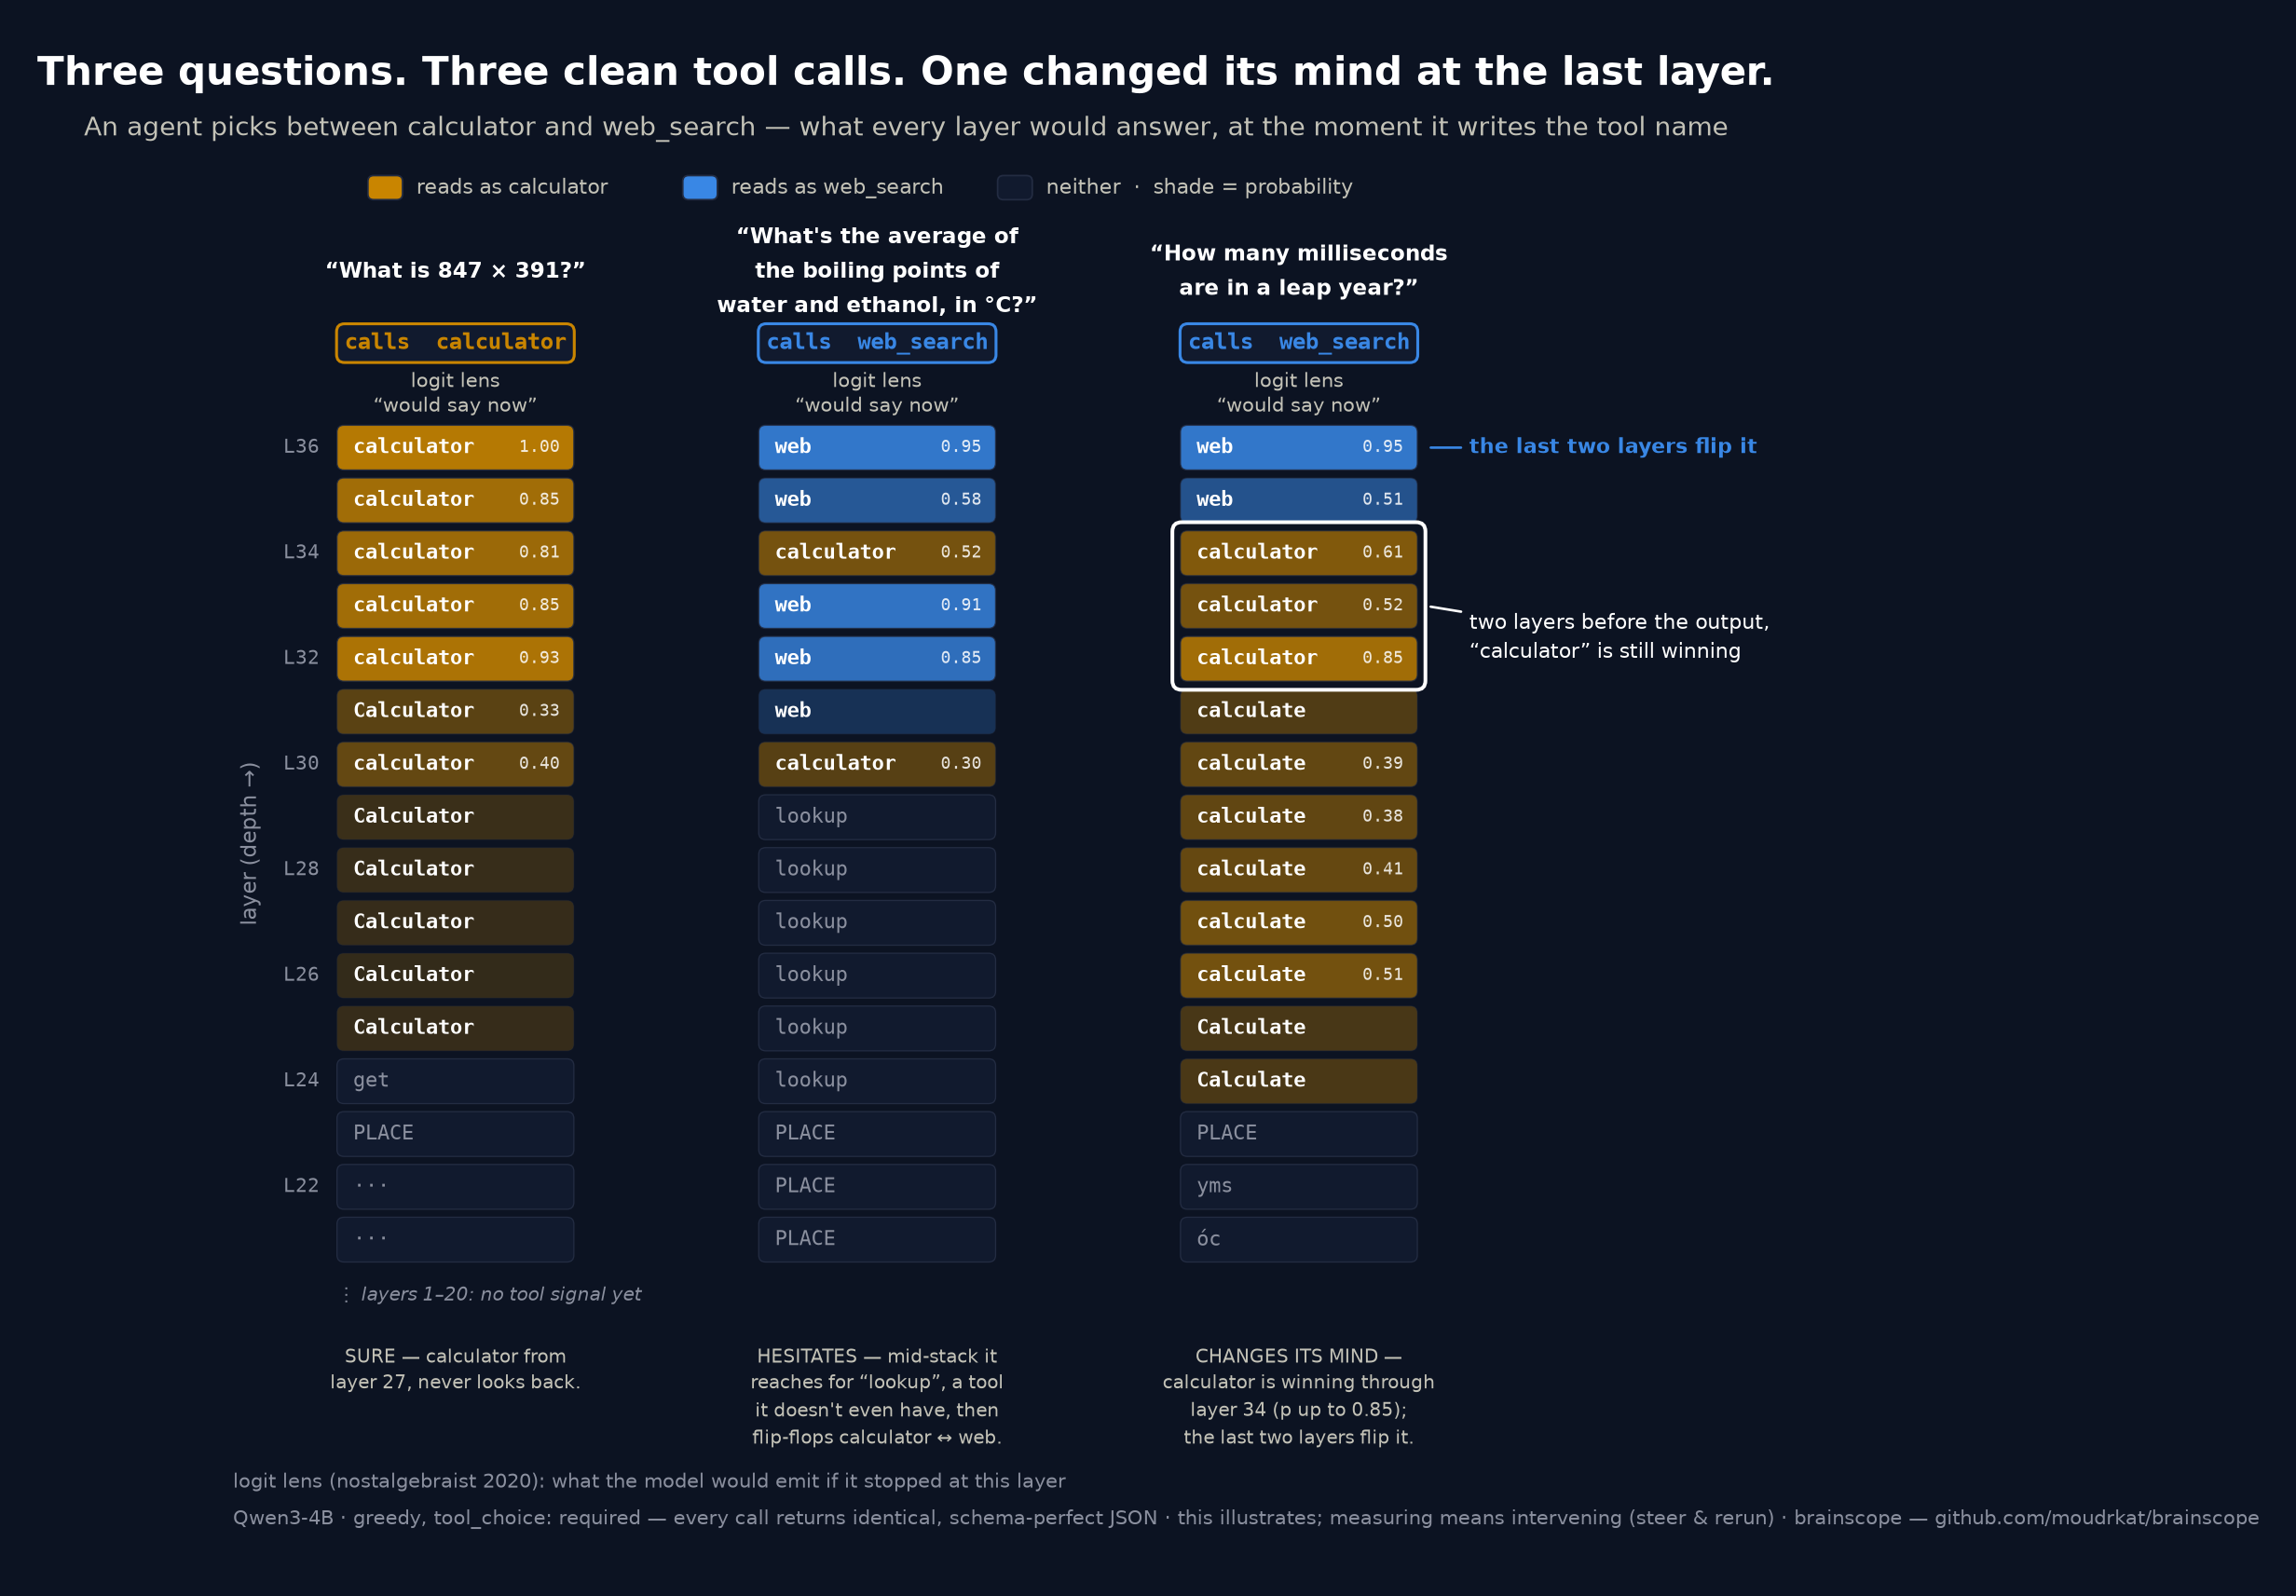
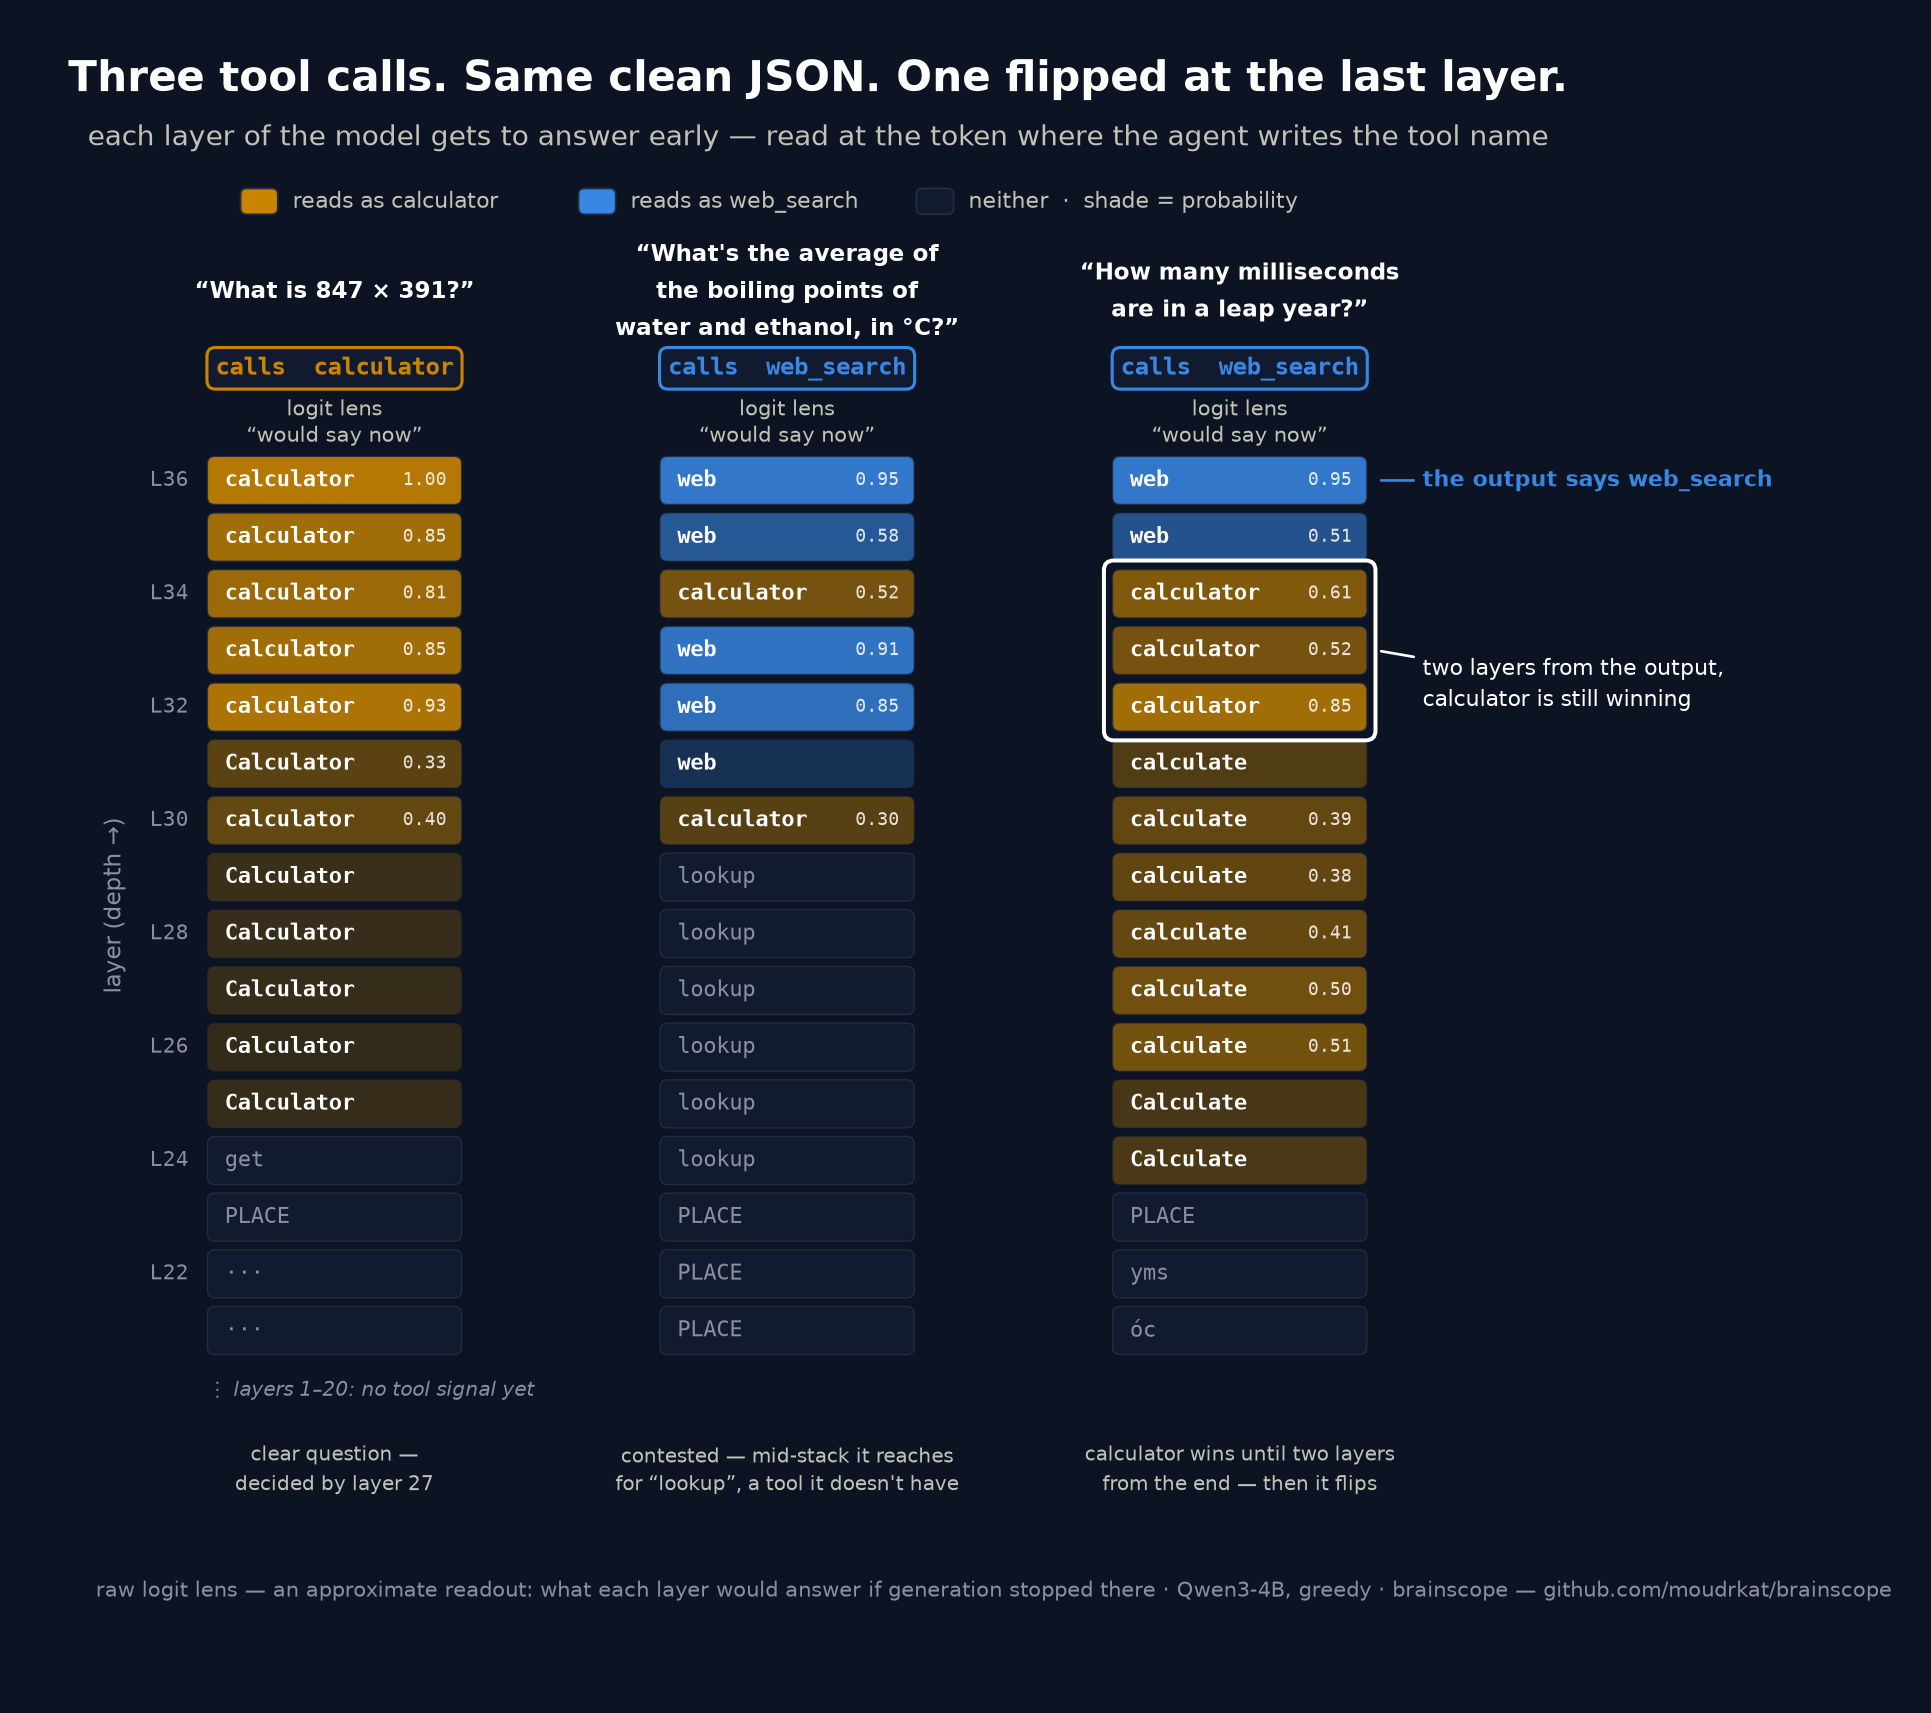
README structure fix; feed-ready logit figure; install via git URL
Move the UI replay screenshots back into the hesitation section, add
the decision-margin metric to the list, correct the install command
(not on PyPI), note exact-vs-lower-bound in the honesty section. The
logit-only figure drops to one idea and one footer line, labelled
explicitly as a raw, approximate readout.

diff --git a/fig/render.py b/fig/render.py
@@ -61,24 +61,29 @@ if CZ:
     }
 
 if LOGIT_ONLY:
-    # single-readout story: verdicts/callouts must not reference the J-lens
-    T["subtitle"] = ("An agent picks between calculator and web_search — what every layer would answer, "
-                     "at the moment it writes the tool name" if not CZ else
-                     "Agent volí mezi calculator a web_search — co by odpověděla každá vrstva "
-                     "ve chvíli, kdy píše jméno toolu")
-    T["v1"] = ("SURE — calculator from\nlayer 27, never looks back." if not CZ else
-               "JISTÝ — calculator od vrstvy 27,\nuž se neohlédne.")
-    T["v2"] = ("HESITATES — mid-stack it\nreaches for “lookup”, a tool\nit doesn't even have, then\nflip-flops calculator ↔ web." if not CZ else
-               "VÁHÁ — uprostřed sahá po\n„lookup“, toolu, který vůbec\nnemá, pak přeskakuje\ncalculator ↔ web až do konce.")
-    T["v3"] = ("CHANGES ITS MIND —\ncalculator is winning through\nlayer 34 (p up to 0.85);\nthe last two layers flip it." if not CZ else
-               "ROZMYSLÍ SI TO — až do\nvrstvy 34 vede calculator\n(p až 0,85); poslední dvě\nvrstvy to překlopí.")
-    T["callout1"] = ("two layers before the output,\n“calculator” is still winning" if not CZ else
-                     "dvě vrstvy před výstupem\npořád vede „calculator“")
-    T["callout2"] = ("the last two layers flip it" if not CZ else
-                     "poslední dvě vrstvy to překlopí")
-    T["foot1"] = ("logit lens (nostalgebraist 2020): what the model would emit if it stopped at this layer"
+    # single-readout story, tuned for a feed: one idea, minimal text
+    T["title"] = ("Three tool calls. Same clean JSON. One flipped at the last layer." if not CZ else
+                  "Tři tool cally. Stejně čistý JSON. Jeden se překlopil v poslední vrstvě.")
+    T["subtitle"] = ("each layer of the model gets to answer early — read at the token "
+                     "where the agent writes the tool name" if not CZ else
+                     "každá vrstva modelu smí odpovědět předčasně — čteno na tokenu, "
+                     "kde agent píše jméno toolu")
+    T["v1"] = ("clear question —\ndecided by layer 27" if not CZ else
+               "jasná otázka —\nrozhodnuto od vrstvy 27")
+    T["v2"] = ("contested — mid-stack it reaches\nfor “lookup”, a tool it doesn't have" if not CZ else
+               "sporná — uprostřed sahá po „lookup“,\ntoolu, který nemá")
+    T["v3"] = ("calculator wins until two layers\nfrom the end — then it flips" if not CZ else
+               "až dvě vrstvy před koncem\nvede calculator — pak přeskočí")
+    T["callout1"] = ("two layers from the output,\ncalculator is still winning" if not CZ else
+                     "dvě vrstvy před výstupem\npořád vede calculator")
+    T["callout2"] = ("the output says web_search" if not CZ else
+                     "výstup říká web_search")
+    T["foot1"] = ("raw logit lens — an approximate readout: what each layer would answer if generation "
+                  "stopped there · Qwen3-4B, greedy · brainscope — github.com/moudrkat/brainscope"
                   if not CZ else
-                  "logit lens (nostalgebraist 2020): co by model vypsal, kdyby výpočet skončil v této vrstvě")
+                  "raw logit lens — přibližný readout: co by každá vrstva odpověděla, kdyby generování "
+                  "skončilo tam · Qwen3-4B, greedy · brainscope — github.com/moudrkat/brainscope")
+    T["foot2"] = ""
 
 Q2 = (["What's the average of", "the boiling points of", "water and ethanol, in °C?"]
       if LOGIT_ONLY else

diff --git a/README.md b/README.md
@@ -16,19 +16,21 @@ final layers flip the decision — and `hesitation.py` turns that into two
 numbers per request:
 
 - **settle depth** — the first layer from which the winner stays on top.
+- **decision margin** — p(picked) − p(rival) in the final layer's readout,
+  i.e. in the distribution the token was sampled from.
 - **rival peak** — the losing tool's best probability, at the choice token
   and anywhere earlier in the generation.
 
-That pair is the point of the demo: it's a per-request signal you could log
-in production next to latency and token counts. A tool call that settled in
-the last three layers with the rival at p=0.4 is a different beast than one
-that settled at layer 5 — even though both return the same clean JSON.
+Those are per-request signals you could log in production next to latency
+and token counts. A tool call that settled in the last three layers with
+the rival at p=0.5 is a different beast than one that settled ten layers
+earlier — even though both return the same clean JSON.
 
 ## Run it
 
 ```bash
 # 1. the instrument — any HF model brainscope can serve; traces + lens on
-pip install brainscope   # or: git clone https://github.com/moudrkat/brainscope && pip install -e .
+pip install git+https://github.com/moudrkat/brainscope
 brainscope --model qwen3-4b --traces traces/ --lens on
 
 # 2. the subject (this repo, stdlib only)
@@ -58,6 +60,23 @@ p=0.85 five layers before the end* — the decision flipped at the last
 moment. How contested these are shows up another way too: changing a
 hyphen to an em-dash in the system prompt flipped `torn_leap_ms` to the
 other tool. The clear cases don't care.
+
+The same story in the brainscope UI: traces tab, click the tool-name
+token, look down the logit-lens column. This is `torn_leap_ms`, scrubbed
+to the moment the model wrote `web`:
+
+![replay of torn_leap_ms: layers 24-34 say calculator, the top two flip to web](docs/replay-torn-leap-ms.png)
+
+Layers 24–34 all say *calculator / calculate*; the decision flips in the
+last two layers. Side by side, the same column for a clear call and the two
+torn ones (bottom = layer 1, top = layer 36 = what gets sampled):
+
+| `calc_clear` → calculator | `torn_boiling` → web_search | `torn_leap_ms` → web_search |
+|---|---|---|
+| ![calculator wins from layer 24](docs/lens-calc-clear.png) | ![lookup and calculator through the middle, web flip-flops late](docs/lens-torn-boiling.png) | ![calculate all the way up, web only in the last two rows](docs/lens-torn-leap-ms.png) |
+
+(`torn_boiling` bonus: mid-stack the model is reaching for `lookup` — a
+tool that doesn't exist.)
 
 ## Second opinion: the J-lens
 
@@ -112,23 +131,6 @@ word-family emergence tracking (`?token=calculator,calculate,calc` sums
 the family — mid-sentence a model holds concepts, not exact tokens; the
 literal token `calculator` alone reads ~0.00 there).
 
-Then open the brainscope UI, traces tab, click the tool-name token and look
-down the logit-lens column — the same story, in color, scrubbing token by
-token. This is `torn_leap_ms`, scrubbed to the moment the model wrote `web`:
-
-![replay of torn_leap_ms: layers 24-34 say calculator, the top two flip to web](docs/replay-torn-leap-ms.png)
-
-Layers 24–34 all say *calculator / calculate*; the decision flips in the
-last two layers. Side by side, the same column for a clear call and the two
-torn ones (bottom = layer 1, top = layer 36 = what gets sampled):
-
-| `calc_clear` → calculator | `torn_boiling` → web_search | `torn_leap_ms` → web_search |
-|---|---|---|
-| ![calculator wins from layer 24](docs/lens-calc-clear.png) | ![lookup and calculator through the middle, web flip-flops late](docs/lens-torn-boiling.png) | ![calculate all the way up, web only in the last two rows](docs/lens-torn-leap-ms.png) |
-
-(`torn_boiling` bonus: mid-stack the model is reaching for `lookup` — a
-tool that doesn't exist.)
-
 ## Why this matters for production agents
 
 Tool-call schemas are enforced at decode time these days; the JSON is always
@@ -144,10 +146,12 @@ was contested. Watching the layers gives you:
 
 ## Honesty note
 
-The numbers come from stored top-5 logit-lens readouts, so they are a lower
-bound (a tool missing from a layer's top-5 counts as zero), and the logit
-lens itself is a readout convention, not ground truth about the computation.
-This demo **illustrates** hesitation on your model and your prompts;
-**measuring** it properly means interventions and controls — steer the
-decision, rerun, compare. brainscope can do that part too (see its
-[steering docs](https://github.com/moudrkat/brainscope/blob/main/docs/steering.md)).
+`hesitation.py` reads stored top-5 logit-lens readouts, so its rival/strip
+numbers are a lower bound (a tool missing from a layer's top-5 counts as
+zero; the final row is exact — it is the sampling distribution).
+`foresight.py` stores hidden states and reads exact probabilities. Either
+way, a lens is a readout convention, not ground truth about the
+computation. This demo **illustrates** contested tool choices on one model
+and a hand-picked battery; **measuring** means interventions and
+controls — steer the decision, rerun, compare. brainscope can do that part
+too (see its [steering docs](https://github.com/moudrkat/brainscope/blob/main/docs/steering.md)).